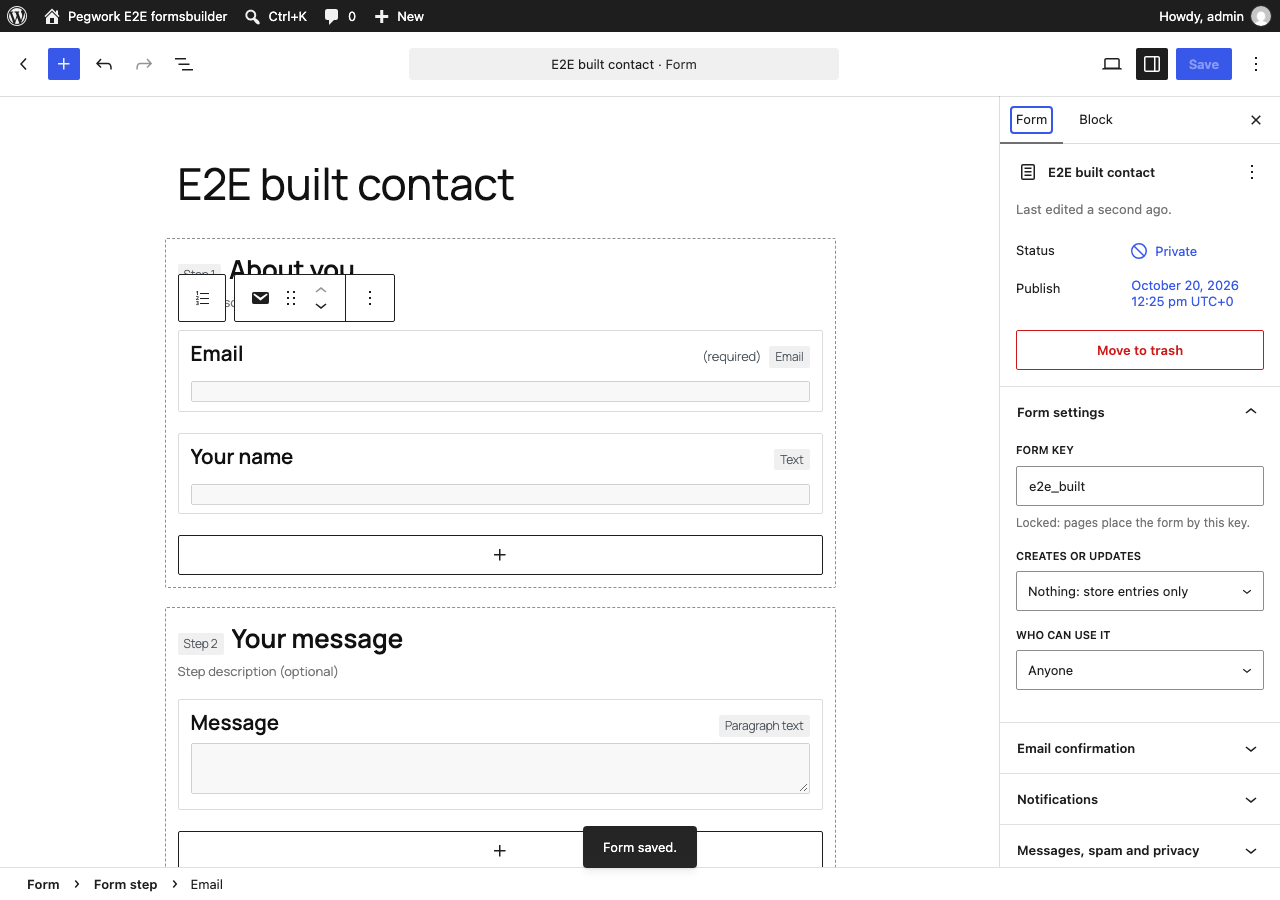
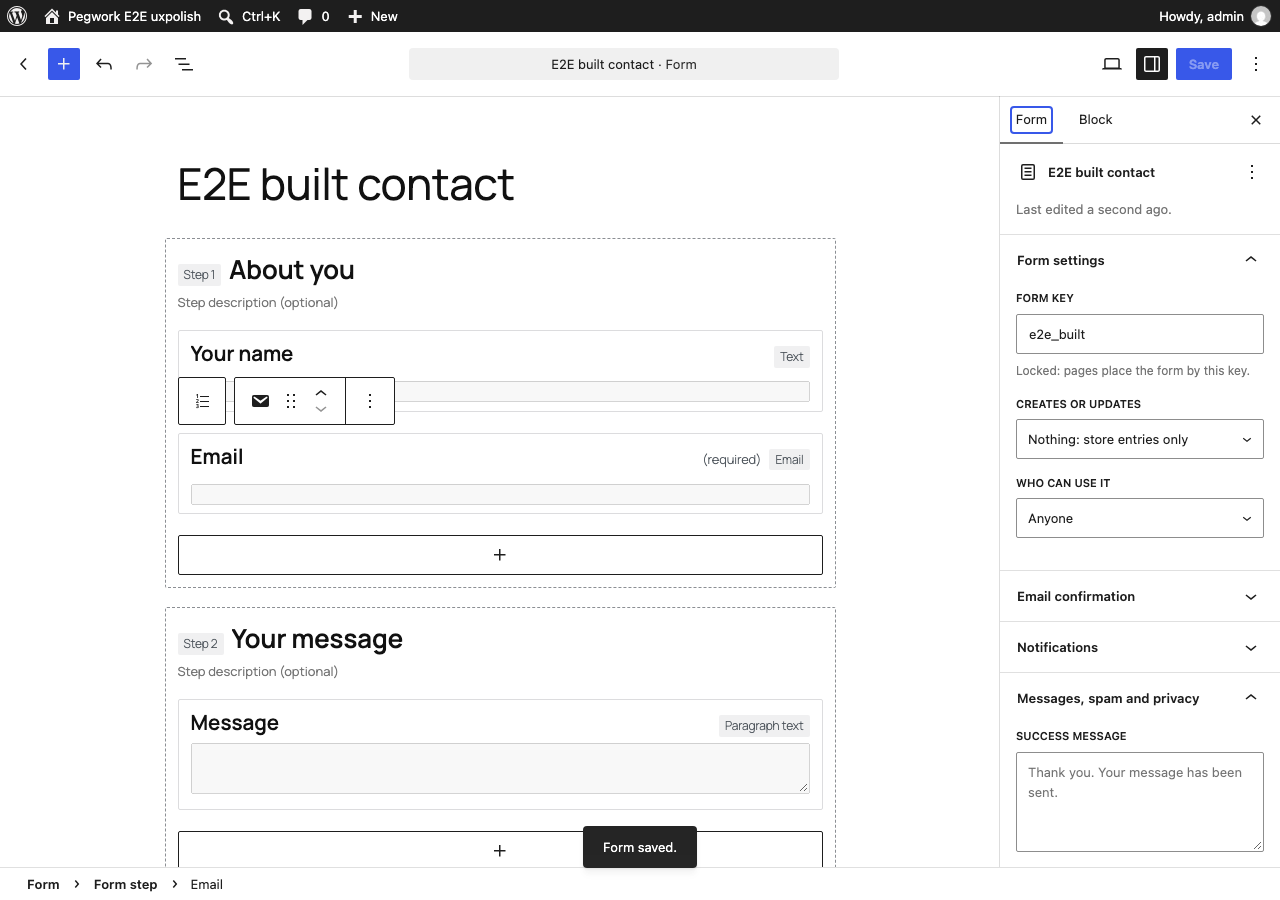
UX polish: read-only inserter, pre-save panel, Forms list keys, disabled Turnstile button, specs, screenshots

diff --git a/tests/e2e/specs/forms-builder.e2e.js b/tests/e2e/specs/forms-builder.e2e.js
@@ -97,8 +97,7 @@ async function save( page ) {
 		.first();
 	// The builder relabels core's Publish as Save, so a new form is told apart by its status.
 	const isNew = await page.evaluate(
-		() =>
-			! window.wp.data.select( 'core/editor' ).isCurrentPostPublished()
+		() => ! window.wp.data.select( 'core/editor' ).isCurrentPostPublished()
 	);
 	await press( button );
 	const confirm = page
@@ -461,6 +460,15 @@ test( 'a file form opens read-only with Duplicate as site form', async ( {
 			.filter( { hasText: 'read-only' } )
 			.first()
 	).toBeVisible();
+	// Truly read-only: no inserter, no Save draft, no status rows, no "Last edited".
+	await expect( inserterToggle( page ) ).toBeHidden();
+	await expect(
+		page.getByRole( 'button', { name: 'Save draft' } )
+	).toHaveCount( 0 );
+	await expect(
+		page.locator( '.editor-post-last-edited-panel' )
+	).toBeHidden();
+	await expect( page.locator( '.editor-post-status' ) ).toHaveCount( 0 );
 	const duplicate = page
 		.getByRole( 'link', { name: 'Duplicate as site form' } )
 		.or( page.getByRole( 'button', { name: 'Duplicate as site form' } ) )
@@ -480,6 +488,15 @@ test( 'a file form opens read-only with Duplicate as site form', async ( {
 		'e2e_contact_copy'
 	);
 	await expect( page.getByLabel( 'Form key' ) ).toBeEnabled();
+	// A new site form offers Save, not Publish.
+	await expect(
+		page
+			.getByRole( 'region', { name: 'Editor top bar' } )
+			.getByRole( 'button', { name: 'Save', exact: true } )
+	).toBeVisible();
+	await expect(
+		page.getByRole( 'button', { name: 'Publish', exact: true } )
+	).toHaveCount( 0 );
 } );
 
 test( 'an editor cannot open the builder or the Forms list', async ( {

diff --git a/tests/e2e/specs/admin-a11y.e2e.js b/tests/e2e/specs/admin-a11y.e2e.js
@@ -1,7 +1,8 @@
 const { test, expect } = require( '../utils/fixtures' );
 const { expectNoSeriousA11yViolations } = require( '../utils/a11y' );
 
-// Axe on every Pegwork admin screen found in the admin menu. Skips cleanly while none exist.
+// Axe at 1280 and 782 px, and no horizontal page scroll at 782 px, on every Pegwork admin screen
+// found in the admin menu. Skips cleanly while none exist.
 test( 'Pegwork admin screens have no serious accessibility violations', async ( {
 	page,
 } ) => {
@@ -17,11 +18,26 @@ test( 'Pegwork admin screens have no serious accessibility violations', async ( 
 		'No Pegwork admin screens on this build yet.'
 	);
 
+	const base = page.url();
 	for ( const href of hrefs ) {
-		await page.goto( new URL( href, page.url() ).toString() );
-		await expect( page.locator( '#wpbody-content' ) ).toBeVisible();
-		await expectNoSeriousA11yViolations( page, {
-			exclude: [ '#wpadminbar', '#adminmenuwrap' ],
-		} );
+		for ( const width of [ 1280, 782 ] ) {
+			await page.setViewportSize( { width, height: 900 } );
+			await page.goto( new URL( href, base ).toString() );
+			await expect( page.locator( '#wpbody-content' ) ).toBeVisible();
+			await expectNoSeriousA11yViolations( page, {
+				exclude: [ '#wpadminbar', '#adminmenuwrap' ],
+			} );
+			if ( width === 782 ) {
+				const overflow = await page.evaluate(
+					() =>
+						document.documentElement.scrollWidth - window.innerWidth
+				);
+				expect(
+					overflow,
+					`horizontal page scroll at 782 px on ${ href }`
+				).toBeLessThanOrEqual( 0 );
+			}
+		}
 	}
+	await page.setViewportSize( { width: 1280, height: 900 } );
 } );

diff --git a/assets/src/forms-builder/builder.scss b/assets/src/forms-builder/builder.scss
@@ -183,9 +183,16 @@ $pegwork-muted: #50575e;
 	display: none;
 }
 
+// The pre-save panel's Visibility ("Public") and Publish ("Immediately") rows do not apply: the
+// save is always private and immediate.
+.post-type-pegwork_form .editor-post-publish-panel__prepublish .components-panel__body {
+	display: none;
+}
+
 // File forms (read-only): every block is locked (templateLock "all"), but core keeps the inserter
-// button enabled; and the post is regenerated from the file, so "Last edited" says nothing.
-.pegwork-form-readonly .editor-document-tools__inserter-toggle,
+// button enabled; and the post is regenerated from the file, so "Last edited" says nothing. The
+// inserter selector outranks core's `.editor-document-tools .editor-document-tools__left > ...`.
+.pegwork-form-readonly .editor-document-tools .editor-document-tools__left > .editor-document-tools__inserter-toggle,
 .pegwork-form-readonly .editor-post-last-edited-panel {
 	display: none;
 }

diff --git a/tests/e2e/specs/forms-entries.e2e.js b/tests/e2e/specs/forms-entries.e2e.js
@@ -250,7 +250,21 @@ test( 'delete through the confirmation screen', async ( { page } ) => {
 			.locator( 'tr', { hasText: 'ada@example.org' } )
 			.getByRole( 'link', { name: /^Delete/ } )
 	);
-	await press( page.getByRole( 'button', { name: 'Delete permanently' } ) );
+	// Destructive styling: red button with a visible red focus ring when reached by keyboard.
+	const confirmDelete = page.getByRole( 'button', {
+		name: 'Delete permanently',
+	} );
+	await expect( confirmDelete ).toHaveClass( /pegwork-button-delete/ );
+	await confirmDelete.focus();
+	await expect( confirmDelete ).toHaveCSS(
+		'background-color',
+		'rgb(179, 45, 46)'
+	);
+	await expect( confirmDelete ).toHaveCSS(
+		'box-shadow',
+		'rgb(255, 255, 255) 0px 0px 0px 1px, rgb(179, 45, 46) 0px 0px 0px 3px'
+	);
+	await press( confirmDelete );
 	await expect( page.locator( '.notice-success' ) ).toContainText(
 		'1 entry permanently deleted.'
 	);

diff --git a/modules/forms/blocks/form/style.css b/modules/forms/blocks/form/style.css
@@ -97,6 +97,12 @@ fieldset.pegwork-form__field {
 	box-shadow: 0 0 0 5px #fff;
 }
 
+/* A Turnstile form's button stays disabled without JavaScript (see the noscript notice). */
+.pegwork-form__submit:disabled {
+	cursor: not-allowed;
+	opacity: 0.5;
+}
+
 .pegwork-form__error {
 	color: #b3261e;
 	font-weight: 600;

diff --git a/tests/Integration/Forms/FormBuilderTest.php b/tests/Integration/Forms/FormBuilderTest.php
@@ -376,7 +376,7 @@ class FormBuilderTest extends FormsTestCase {
 		$html = ob_get_clean();
 
 		$this->assertStringContainsString( 'Contact us', $html );
-		$this->assertStringContainsString( '<code>fr_contact</code>', $html );
+		$this->assertStringContainsString( '<code>fr_<wbr>contact</code>', $html, 'Keys break after an underscore only.' );
 		$this->assertStringContainsString( 'File: forms_runtime (read-only)', $html );
 		$this->assertStringContainsString( 'Duplicate as site form', $html );
 		$this->assertStringContainsString( esc_attr( '<!-- wp:pegwork/form {"form":"fr_contact"} /-->' ), $html );
@@ -395,9 +395,11 @@ class FormBuilderTest extends FormsTestCase {
 		$settings = FormPost::editor_settings( array(), new WP_Block_Editor_Context( array( 'post' => get_post( $post_id ) ) ) );
 		$this->assertSame( 'all', $settings['templateLock'] );
 		set_current_screen( FormPost::TYPE );
+		// phpcs:disable WordPress.WP.GlobalVariablesOverride.Prohibited -- post.php sets the edited post as $post; body_class() reads it with get_post().
 		$GLOBALS['post'] = get_post( $post_id );
 		$this->assertStringContainsString( 'pegwork-form-readonly', BuilderEditor::body_class( 'x' ), 'Read-only styles: no inserter, no "Last edited".' );
 		$GLOBALS['post'] = get_post( $this->create_form() );
+		// phpcs:enable WordPress.WP.GlobalVariablesOverride.Prohibited
 		$this->assertSame( 'x', BuilderEditor::body_class( 'x' ), 'Site forms stay editable.' );
 		unset( $GLOBALS['post'] );
 		set_current_screen( 'pegwork_page_' . FormsAdmin::SLUG );

diff --git a/tests/Integration/Forms/FormsTurnstileTest.php b/tests/Integration/Forms/FormsTurnstileTest.php
@@ -129,7 +129,7 @@ class FormsTurnstileTest extends FormsTestCase {
 		$this->assertSame( Turnstile::SCRIPT_URL, wp_scripts()->registered[ Turnstile::HANDLE ]->src );
 		$this->assertNull( wp_scripts()->registered[ Turnstile::HANDLE ]->ver, 'No version query on Cloudflare\'s URL.' );
 		$this->assertStringNotContainsString( self::TURNSTILE_SECRET_KEY, $html );
-		$this->assertMatchesRegularExpression( '#<button type="submit" class="pegwork-form__submit wp-element-button" disabled>[^<]*</button><script[^>]*>\s*document\.currentScript\.previousElementSibling\.disabled=false;\s*</script>#', $html, 'Disabled until a script runs: without JavaScript it cannot be sent.' );
+		$this->assertMatchesRegularExpression( '#<button type="submit" class="pegwork-form__submit wp-element-button" disabled>[^<]*</button><script[^>]*>\s*(?:/\* <!\[CDATA\[ \*/\s*)?document\.currentScript\.previousElementSibling\.disabled=false;\s*(?:/\* \]\]> \*/\s*)?</script>#', $html, 'Disabled until a script runs: without JavaScript it cannot be sent (WordPress 6.7 adds a CDATA wrapper for themes without html5 script support).' );
 
 		$plain = do_blocks( '<!-- wp:pegwork/form {"form":"fr_contact"} /-->' );
 		$this->assertStringNotContainsString( 'cf-turnstile', $plain );

diff --git a/modules/forms/src/FormsAdmin.php b/modules/forms/src/FormsAdmin.php
@@ -81,10 +81,10 @@ final class FormsAdmin {
 		$table->prepare_items();
 
 		// Block markup breaks at its spaces (a word is split only when it cannot fit at all); narrow count
-		// columns give it room; form keys stay on one line.
+		// columns give it room; form keys break after an underscore, never inside a word.
 		echo '<style>.pegwork-forms__markup{display:inline-block;max-width:100%;font-size:12px;word-break:normal;overflow-wrap:anywhere;}'
 			. '.pegwork-forms .column-received,.pegwork-forms .column-unconfirmed{width:7.5em;}.pegwork-forms .column-block{width:26%;}'
-			. '.pegwork-forms td.column-key code{white-space:nowrap;}</style>';
+			. '.pegwork-forms td.column-key code{word-break:normal;overflow-wrap:anywhere;}</style>';
 		echo '<div class="wrap pegwork-forms">';
 		echo '<h1 class="wp-heading-inline">' . esc_html__( 'Forms', 'pegwork' ) . '</h1>';
 		echo ' <a class="page-title-action" href="' . esc_url( admin_url( 'post-new.php?post_type=' . FormPost::TYPE ) ) . '">' . esc_html__( 'Add form', 'pegwork' ) . '</a>';

diff --git a/modules/forms/src/EntriesAdmin.php b/modules/forms/src/EntriesAdmin.php
@@ -399,7 +399,7 @@ final class EntriesAdmin {
 			$lines = array();
 			foreach ( $meta['errors'] as $key => $message ) {
 				// Key '' is a whole-form error: no "key: " prefix.
-				$lines[] = esc_html( ( is_string( $key ) && '' !== $key ? $key . ': ' : '' ) .( is_scalar( $message ) ? (string) $message : (string) wp_json_encode( $message ) ) );
+				$lines[] = esc_html( ( is_string( $key ) && '' !== $key ? $key . ': ' : '' ) . ( is_scalar( $message ) ? (string) $message : (string) wp_json_encode( $message ) ) );
 			}
 			$rows[ __( 'Errors', 'pegwork' ) ] = implode( '<br>', $lines );
 		}

diff --git a/src/Admin/Menu.php b/src/Admin/Menu.php
@@ -72,7 +72,7 @@ final class Menu {
 		wp_add_inline_style(
 			self::STYLE,
 			'.pegwork-admin .pegwork-table code{overflow-wrap:anywhere;}'
-			. '.pegwork-admin .pegwork-modules th code{overflow-wrap:normal;}'
+			. '.pegwork-admin .pegwork-modules th code{overflow-wrap:normal;word-break:normal;}'
 			. '.pegwork-admin h2{margin-top:2em;}'
 			. '.pegwork-admin .pegwork-fields{margin:1em 0;}'
 			. '.pegwork-admin .pegwork-fields summary{cursor:pointer;font-weight:600;padding:4px 0;}'

diff --git a/modules/forms/src/FormsTable.php b/modules/forms/src/FormsTable.php
@@ -133,12 +133,12 @@ final class FormsTable extends \WP_List_Table {
 	}
 
 	/**
-	 * Form key.
+	 * Form key, breakable after each underscore (`<wbr>` adds no character when copied).
 	 *
 	 * @param array<string, mixed> $item Row.
 	 */
 	protected function column_key( $item ): string {
-		return '<code>' . esc_html( $item['key'] ) . '</code>';
+		return '<code>' . str_replace( '_', '_<wbr>', esc_html( $item['key'] ) ) . '</code>';
 	}
 
 	/**

diff --git a/docs/forms.md b/docs/forms.md
@@ -31,14 +31,14 @@ The registry stays the source of truth; a `pegwork_form` post is only its editin
 - Mapping, 1:1: each `pegwork/form-field` block's attributes are one item (`Builder::FIELD_ATTRIBUTES` order, the keys the registry accepts, `type: file`, `accept`, `max_size_mb` included); each `pegwork/form-step` block's attributes are one step and its inner blocks the step's items; the post title is `label`; everything else (`key`, `target`, `access`, `confirm`, `captcha`, `notifications`, `messages`, `retention_days`) is a JSON object in post meta `_pegwork_form_settings`. Meta `_pegwork_form_key` and `_pegwork_form_hash` link the post to its definition. `Builder::generate()` and `Builder::compile()` are inverses for every valid definition (`FormBuilderRoundTripTest`, byte-identical after `Normalizer::normalize()`).
 - Blocks: both are allowed only in `pegwork_form` posts, and those posts allow only them (`allowed_block_types_all`). One variation per field type (Text is the default) and one per field and taxonomy of the target type (bound items); the field block shows an inline label over a disabled preview of the control, with required, help, placeholder, autocomplete, validation, options and show_when in the sidebar. Bound fields show the registry rules read-only ("From Project: Text, required, up to 200 characters"); their label, empty until you type one, shows the field's own label at full contrast as its placeholder, because that is the label the form uses. Missing item and step keys follow the label. On the front end both blocks render nothing.
 - Document settings (sidebar, Form tab): Form settings (key, locked after the first save; target type, action and status; access), Email confirmation, Notifications (repeater with merge-tag help), and Messages, spam and privacy (messages, Turnstile toggle, retention). The Turnstile toggle is disabled with a note until `PEGWORK_TURNSTILE_SITE_KEY` and `PEGWORK_TURNSTILE_SECRET_KEY` are both set in `wp-config.php`. "Add all fields from <type>" appends a bound field for each target field and taxonomy not yet in the form.
-- Editor chrome: forms are always private, so the Summary panel's status, publish date and related rows are removed (`removeEditorPanel( 'post-status' )`; Trash stays in the document Actions menu), Save draft is hidden, and core's Publish wording reads Save ("Ready to save this form?" in the pre-save panel), through an `i18n.gettext_default` filter added by the builder script.
+- Editor chrome: forms are always private, so the Summary panel's status, publish date and related rows are removed (`removeEditorPanel( 'post-status' )`; Trash stays in the document Actions menu), Save draft is hidden, and core's Publish wording reads Save ("Ready to save this form?" in the pre-save panel, whose Visibility and Publish rows are hidden; a private save shows no post-publish panel, only "Form saved."), through an `i18n.gettext_default` filter added by the builder script.
 - Save: `rest_pre_insert_pegwork_form` compiles the post and calls `pegwork_save_form()`. Any problem refuses the save (`WP_Error` `pegwork_invalid_form`, status 400; 409 when the key belongs to a file form) with `data.fields`, messages keyed by JSON pointer (`/steps/0/fields/1/label`). The editor shows the first message in core's save notice and each one at its block or setting. Autosaves are not compiled. Trash calls `pegwork_delete_form()`; restoring saves the form again; a post deleted without the trash deletes its definition too.
 - Sync: opening a form (`load-post.php`) regenerates the post when the registry definition's hash differs (a `wp pegwork form import`, a package update, a `pegwork_save_form()` call).
 - File-defined forms open read-only: the template is locked (`templateLock: all`), saving is disabled, the block inserter toggle and the "Last edited" line are hidden (body class `pegwork-form-readonly`; core leaves the inserter enabled under a template lock), sync keeps the post's modified date, and a notice offers "Duplicate as site form", which opens a new form prefilled from the definition under a free key `<key>_copy` (nothing is saved until you save). They cannot be trashed.
 
 ## Forms list
 
-Pegwork > Forms (`admin.php?page=pegwork-forms`, menu position 20; Entries is 21). Visiting it creates a post for every registry form that has none. Columns: form (Edit, or View for file forms, plus "Duplicate as site form"), key, source ("Site" or "File: <package> (read-only)"), received and unconfirmed counts (one grouped query), Entries link, and the block markup with a "Copy block" button (announced in a polite live region; hidden without JavaScript, the markup stays selectable; it wraps at punctuation, mid-word only when nothing else fits). "Add form" opens a new form.
+Pegwork > Forms (`admin.php?page=pegwork-forms`, menu position 20; Entries is 21). Visiting it creates a post for every registry form that has none. Columns: form (Edit, or View for file forms, plus "Duplicate as site form"), key, source ("Site" or "File: <package> (read-only)"), received and unconfirmed counts (one grouped query), Entries link, and the block markup with a "Copy block" button (announced in a polite live region; hidden without JavaScript, the markup stays selectable; it wraps at spaces, mid-word only when nothing else fits; keys break after an underscore). "Add form" opens a new form.
 
 ## Markup
 
@@ -48,7 +48,7 @@ Server-rendered, works without JavaScript:
 - Every control has a `<label>`; select items with `display: radio` are a `fieldset role="radiogroup"` with a `legend`; multi-select taxonomies are a `fieldset` of checkboxes named `pegwork[<key>][]` (or a multiple `select` with `display: select`); steps render as fieldsets with legends, all on one page with one submit button.
 - Required items show "(required)" in the label and carry `aria-required="true"`. `autocomplete` and `placeholder` come from the definition.
 - A `file` item is `<input type="file" name="pegwork[<key>]" accept=".pdf,.txt">` (its usable extensions, see File uploads) with help text stating them and the size limit ("PDF or TXT, up to 1 MB."). After a re-render with any problem it also says `Choose the file again. "<name>" was not kept.` (linked by `aria-describedby`): browsers cannot refill a file input, and the server keeps no file from a submission it did not store.
-- Turnstile forms: a `noscript` notice before the form ("This form needs JavaScript for its spam check..."), the widget at the end of the last step (see Turnstile), and a submit button rendered `disabled` and enabled by an inline script right after it, so without JavaScript the form cannot be sent.
+- Turnstile forms: a `noscript` notice before the form ("This form needs JavaScript for its spam check..."), the widget at the end of the last step (see Turnstile), and a submit button rendered `disabled` (shown faded) and enabled by an inline script right after it, so without JavaScript the form cannot be sent.
 - `show_when` items are always shown, with the condition as help text ("Only needed if "Needs volunteers" is checked."); the server ignores their values while the condition is false.
 - Help text and the error message are linked from the control by `aria-describedby`; invalid controls get `aria-invalid="true"`.
 - After errors: an error summary at the top (heading "There is a problem", one link per field, focused with `autofocus`), per-field messages prefixed "Error:" for screen readers, the posted values kept, and the document title prefixed "Error: ".
@@ -188,7 +188,7 @@ Pegwork > Entries (`admin.php?page=pegwork-entries`, submenu position 21). Every
 
 - List (`WP_List_Table`): views All (every status but spam), Received, Unconfirmed, Failed, Spam (Processing only while an entry is in it), with counts for the current form and search; filter by form (registry forms, then keys only entries still use, shown as "<key> (deleted form)"); search by part of the email; sort by date (newest first); 20 per page. Columns: submitted (links to the entry; row actions View, Delete), email, form, summary (first two text values, shortened), status, linked post (title, edit link when allowed, post status). Empty states: "No entries yet..." and "No entries match these filters.".
 - Bulk actions: Mark as spam (received, unconfirmed and failed entries; never `processing`, which a confirmation holds), Not spam (spam view; spam becomes `received`: it was never mailed and has no record), Delete permanently.
-- Entry (`&entry=<id>`, the `{entry:admin_url}` link): every value with its label from the current definition (bound items use the field or taxonomy label), then keys the definition no longer has; booleans Yes/No, select labels, lists joined by commas, multi-line text kept, a file as its name linked (underlined) to the private download with size and type, or "(the file was not kept)" for spam; then form, status, email, submitted and confirmed times (site time), linked post, who used "Create post anyway", submitter account, page, notification results, spam reasons, errors. Actions: Create post anyway, Mark as spam or Not spam, Delete permanently.
+- Entry (`&entry=<id>`, the `{entry:admin_url}` link): every value with its label from the current definition (bound items use the field or taxonomy label), then keys the definition no longer has; booleans Yes/No, select labels, lists joined by commas, multi-line text kept, a file as its name linked (underlined) to the private download with size and type, or "(the file was not kept)" for spam; then form, status, email, submitted and confirmed times (site time), linked post, who used "Create post anyway", submitter account, page, notification results, spam reasons, errors. Actions: Create post anyway, Mark as spam or Not spam, Delete permanently (red outline; on the confirmation screen a filled red button; both with a red focus ring, class `pegwork-button-delete`). At 782 px the list keeps its bulk actions and form filter, which core hides on small screens.
 - Delete (`&delete=<ids>`): always a confirmation screen listing the entries; only its POST deletes. Records created from entries are kept.
 - Create post anyway: for an entry without a post, not spam or processing, whose form has a draft type: `target.content_type` of a `create` form, or for an entry-only form the `pegwork_forms_draft_type` filter (SI for Good maps Share a story to `sifg_story`). Needs the type's `create_posts` too. Creates a Draft through `Pegwork\Api\Records::create()`, authored by the admin: for a `create` form with `RecordWriter::draft()` (bound items, `post_content` as paragraph blocks), for an entry-only form from the values whose keys are fields or taxonomies of the type; values the type rejects are left out, so the admin always gets a draft to finish. No notifications are sent and no `form.confirmed` is emitted. The entry is claimed first (`EntryState::claim()` to `processing`), so a second click or the submitter's confirm link at the same moment cannot make a second post; afterwards it is `received`, linked by `post_id`, with `meta.post_created` (`by`, `at`, `from`). For held Submit a project entries this is the path for submitters who lost the confirmation email.
 - Every action is one `admin-post.php?action=pegwork_entries` handler (`op` `spam|not_spam|delete|create_post`, `entry[]`, nonce `bulk-pegwork_entries`, the list table's own bulk nonce). The filter and search form is a separate GET form, so filter URLs carry no nonce. Results show as a notice on the next screen.
